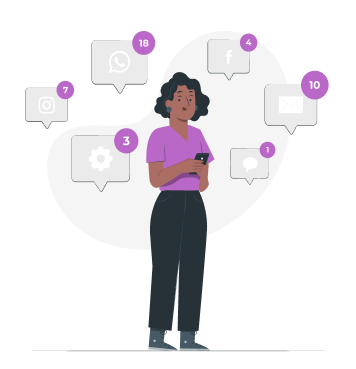
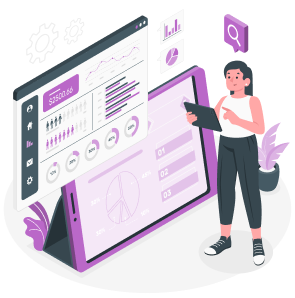
pagina inicial atualizada, imagem e textos atualizados, e pequenos detalhes

diff --git a/styles/stylePrincipal.css b/styles/stylePrincipal.css
@@ -3,6 +3,7 @@
     border: 0;
     padding: 0;
     font-family: 'Poppins', sem serifa;
+    scroll-behavior: smooth;
 }
 
 main{
@@ -41,6 +42,27 @@ header ul li a{
     color: #242424;
 
 }
+header ul li:hover{
+    transform: translateY(-0.2rem);
+
+}
+header ul li:before{
+    content: "";
+    position: absolute;
+    top: 0;
+    left: 5px;
+    width: 0;
+    height: 100%;
+    border-bottom: solid 2px #A200EE;
+    transition: width 0.3s, background-color 0.3s;
+    z-index: -1;
+}
+header ul li:hover::before{
+    width: 90%;
+    border-bottom: solid 2px #A200EE;
+    margin: auto;
+
+}
 header ul li a:hover{
     cursor: pointer;
     color: #A200EE;
@@ -74,7 +96,8 @@ header #btnTopoContainer{
 .btnTopo:hover{
     transform: scale(1.1);
     box-shadow: #3a3a3a 3px 3px 3px;
-    transition: all 0.3s;
+    transition: all 0.5s;
+    color: #2A0031;
 }
 #conteudoHomeTopo{
     display: flex;
@@ -139,6 +162,7 @@ header #btnTopoContainer{
     font-size: 19px;
     box-shadow: #3a3a3a 3px 3px 3px;
     transition: all 0.3s;
+    color: #2A0031;
 }
 #imgsCarrosDireita{
     width: 20%;
@@ -156,7 +180,10 @@ header #btnTopoContainer{
     width: 98vw;
     height: auto;
     margin: 0;
-    margin-top: 15vh;
+    margin-top: 10vh;
+}
+#sessaoServicos article{
+    line-height: 35px;
 }
 #sessaoServicos #tituloServicos{
     text-align: center;
@@ -217,6 +244,11 @@ header #btnTopoContainer{
     width: 50%;
     display: flex;
     justify-content: center;
+    align-items: center;
+}
+#cartaoDois #imgCardDois img{
+    width: 75%;
+    height: 75%;
 }
 
 #cartaoDois #txtCardDois{
@@ -250,11 +282,11 @@ header #btnTopoContainer{
     width: 43%;
     height: 90vh;
     box-shadow: 0px 0px 24px 0px rgba(115,115,115,1);
-
+    /* background-color: yellowgreen; */
 }
 #imgCardVerticalUm{
     width: 100%;
-    height: 55%;
+    height: 40%;
     background: linear-gradient(180deg, rgba(54,4,94,0.29) 0%, rgba(255,199,0,0.42) 100%, rgba(0,0,0,1) 190%);
     display: flex;
     justify-content: center;;
@@ -263,6 +295,8 @@ header #btnTopoContainer{
     margin: auto;
     margin-top: 4vh;
     width: 88%;
+    /* background-color: #7B4BA1; */
+    height: auto;
 }
 .txtCardVertical h5{
     text-align: center;
@@ -273,7 +307,7 @@ header #btnTopoContainer{
 
 .CardVertical .txtCardVertical a{
     color: rgb(68, 149, 214);
-    margin-top: 14vh;
+    margin-top: 2vh;
     display: flex;
     justify-content: flex-start;
     align-self: flex-start;
@@ -282,14 +316,14 @@ header #btnTopoContainer{
 
 #imgCardVerticalDois{
     width: 100%;
-    height: 55%;
+    height: 40%;
     background: linear-gradient(34deg, rgba(240,230,140,0.4) 0%, rgba(216,185,255,0.5) 100%, rgba(0,0,0,1) 190%);
     display: flex;
     justify-content: center;;
     align-items: center;;
 }
 #imgCardVerticalDois img{
-    width: 75%;
+    width: 60%;
     height: 75%;
 }
 
@@ -408,6 +442,6 @@ footer #footerTopo #footerDireita {
     /* background-color: #7B4BA1; */
 }
 footer #footerTopo #footerDireita img{
-    width: 4vw;
-    height: 6vh;
+    width: 2.8vw;
+    height: 5vh;
 }

diff --git a/index.php b/index.php
@@ -17,7 +17,7 @@
 <body>
     <main>
         <div id="homeTopo">
-            <a name="Home">
+            <a name="Home"></a>
                 <header>
                     <div id="logoTopo">
                         <a href="https://void-tech-empresa.vercel.app/" target="_blank"><img src="components/assets/novaLogo.png" alt=""></a>
@@ -60,7 +60,7 @@
                 </div>
                 <div id="txtCardUm">
                     <h2>Controle da Forta</h2>
-                    <p>loremloremloremloremloremloremloremloremloremloremloremloremloremloremloremloremloremloremloremloremloremloremloremloremloremloremloremloremloremloremloremloremloremloremloremloremloremloremloremloremloremloremloremloremloremloremloremloremloremloremloremloremlorem</p>
+                    <p>O VoidDash oferece relatórios detalhados e personalizáveis sobre o desempenho dos motoristas, tempos de entrega e eficiência de combustível. Essas informações permitem identificar áreas de melhoria e otimizar a operação da frota com base em dados.</p>
                     <a href="views/login.php">Saiba Mais -></a>
                 </div>
             </article>
@@ -68,8 +68,8 @@
             <article id="cartaoDois">
 
                 <div id="txtCardDois">
-                    <h2>Controle da Forta</h2>
-                    <p>loremloremloremloremloremloremloremloremloremloremloremloremloremloremloremloremloremloremloremloremloremloremloremloremloremloremloremloremloremloremloremloremloremloremloremloremloremloremloremloremloremloremloremloremloremloremloremloremloremloremloremloremlorem</p>
+                    <h2>Gerenciamento</h2>
+                    <p>O VoidDash oferece relatórios detalhados e personalizáveis sobre o desempenho dos motoristas, tempos de entrega e eficiência de combustível. Essas informações permitem identificar áreas de melhoria e otimizar a operação da frota com base em dados.</p>
                     <a href="views/login.php">Saiba Mais -></a>
                 </div>
                 <div id="imgCardDois">
@@ -83,7 +83,7 @@
                     </div>
                     <div class="txtCardVertical">
                         <h5>Controle Financeiro</h5>
-                        <p>Controle suas multas, impostos e finanças gerais</p>
+                        <p>Oferece um controle financeiro eficiente, permitindo análise detalhada dos gastos com combustível, manutenção e outros custos operacionais para as frotas da sua empresa.</p>
                         <a href="views/login.php">Saiba Mais -></a>
                     </div>
                 </section>
@@ -93,7 +93,7 @@
                     </div>
                     <div class="txtCardVertical">
                         <h5>Manutenção</h5>
-                        <p>Saiba o estado dos veículos de sua Forta</p>
+                        <p>Permite que os veículos da frota estejam em boas condições, reduzindo o risco de falhas mecânicas e aumentando a segurança operacional.</p>
                         <a href="views/login.php">Saiba Mais -></a>
                     </div>
                 </section>
@@ -144,6 +144,7 @@
             </article>
         </section>
 
+        <a name="Contato"></a>
         <footer>
             <section id="footerTopo">
                 <div>
